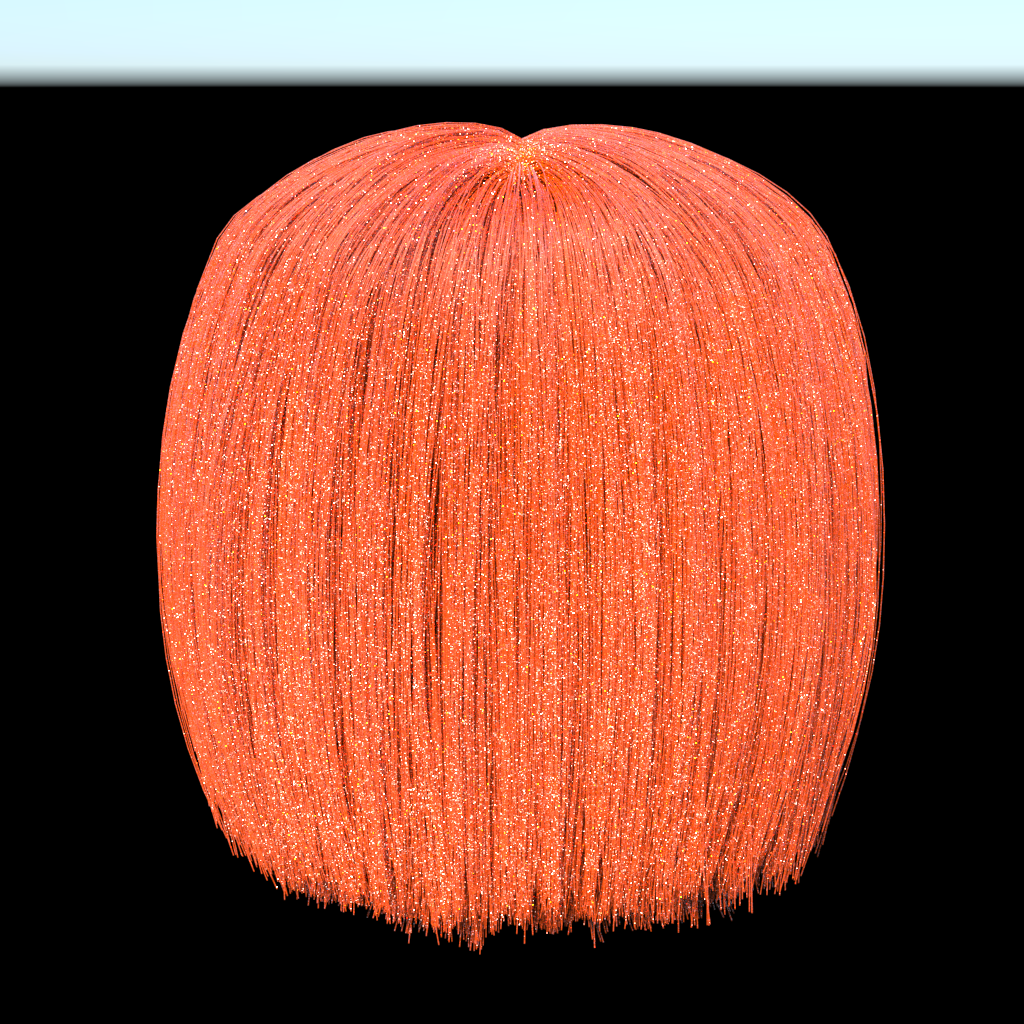
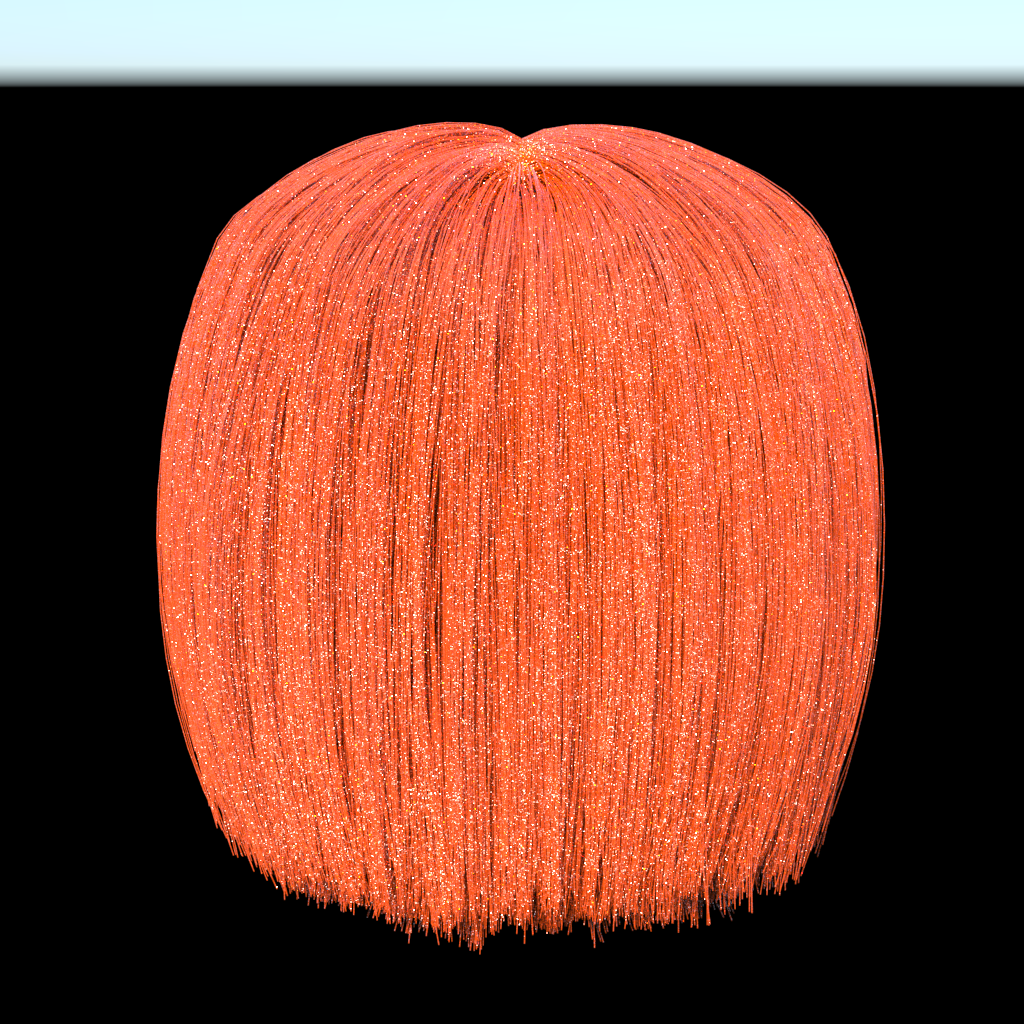
Fixed invalid sample error but why is pdf negative? played around with other variables but no luck

diff --git a/src/bsdfs/marschner_diffuse.cpp b/src/bsdfs/marschner_diffuse.cpp
@@ -72,13 +72,13 @@ public:
         int x;
         _sampler->warp(v, xi, x);
 
-        phi = 2.0f*M_PI*(x + xi)*(1.0f/AzimuthalResolution);
-        pdf = _sampler->pdf(v, x)*float(AzimuthalResolution*(1.0f / (2.0f * M_PI)));
+        phi = 2.0f*M_PI_FLT*(x + xi)*(1.0f/AzimuthalResolution);
+        pdf = _sampler->pdf(v, x)*float(AzimuthalResolution*(1.0f / (2.0f * M_PI_FLT)));
     }
 
     Vector3f eval(float phi, float cosThetaD) const
     {
-        float u = (AzimuthalResolution - 1)*phi*(1.0f / (2.0f * M_PI));
+        float u = (AzimuthalResolution - 1)*phi*(1.0f / (2.0f * M_PI_FLT));
         float v = (AzimuthalResolution - 1)*cosThetaD;
         int x0 = math::clamp(int(u), 0, AzimuthalResolution - 2);
         int y0 = math::clamp(int(v), 0, AzimuthalResolution - 2);
@@ -93,24 +93,24 @@ public:
 
     float pdf(float phi, float cosThetaD) const
     {
-        float u = (AzimuthalResolution - 1)*phi*(1.0f / (2.0f * M_PI));
+        float u = (AzimuthalResolution - 1)*phi*(1.0f / (2.0f * M_PI_FLT));
         float v = (AzimuthalResolution - 1)*cosThetaD;
-        return _sampler->pdf(v, int(u))*float(AzimuthalResolution*(1.0f / (2.0f * M_PI)));
+        return _sampler->pdf(v, int(u))*float(AzimuthalResolution*(1.0f / (2.0f * M_PI_FLT)));
     }
 
     float weight(float cosThetaD) const
     {
         float v = (AzimuthalResolution - 1)*cosThetaD;
-        return _sampler->sum(v)*(2.0f * M_PI/AzimuthalResolution);
+        return _sampler->sum(v)*(2.0f * M_PI_FLT/AzimuthalResolution);
     }
 private:
     std::unique_ptr<Vector3f[]> _table;
     std::unique_ptr<InterpolatedDistribution1D> _sampler;
 };
 
-class Marschner : public BSDF {
+class MarschnerDiffuse : public BSDF {
 public:
-    Marschner(const Properties &props) : BSDF(props) {
+    MarschnerDiffuse(const Properties &props) : BSDF(props) {
         /* Specifies the internal index of refraction at the interface */
         Float intIOR = lookupIOR(props, "intIOR", "bk7");
 
@@ -122,12 +122,12 @@ public:
                 "refraction must be positive!");
 
         m_eta = intIOR / extIOR;
-        _sigmaA = Vector3f(0.22);        
+        _sigmaA = Vector3f(0.5);        
 
         m_specularReflectance = new ConstantSpectrumTexture(
-            props.getSpectrum("specularReflectance", Spectrum(0.1f)));
+            props.getSpectrum("specularReflectance", Spectrum(0.5f)));
         m_specularTransmittance = new ConstantSpectrumTexture(
-            props.getSpectrum("specularTransmittance", Spectrum(0.1f)));
+            props.getSpectrum("specularTransmittance", Spectrum(0.5f)));
         
         m_diffuseReflectance = new ConstantSpectrumTexture(
             props.getSpectrum("diffuseReflectance", Spectrum(1.0f)));
@@ -158,7 +158,7 @@ public:
         _vTRT = _betaTRT * _betaTRT;
     }
 
-    Marschner(Stream *stream, InstanceManager *manager)
+    MarschnerDiffuse(Stream *stream, InstanceManager *manager)
             : BSDF(stream, manager) {
         m_eta = stream->readFloat();
         m_specularReflectance = static_cast<Texture *>(manager->getInstance(stream));
@@ -453,6 +453,8 @@ public:
         float MR   = M(_vR,   std::sin(thetaIR),   sinThetaO, std::cos(thetaIR),   cosThetaO);
         float MTT  = M(_vTT,  std::sin(thetaITT),  sinThetaO, std::cos(thetaITT),  cosThetaO);
         float MTRT = M(_vTRT, std::sin(thetaITRT), sinThetaO, std::cos(thetaITRT), cosThetaO);
+        // float MR  = 0, MTT = 0;
+
 
         Vector3f temp = MR*  _nR->eval(phi, cosThetaD)
                 +  MTT* _nTT->eval(phi, cosThetaD)
@@ -720,7 +722,7 @@ public:
         if (choseSpecular) {
             /* Perfect specular reflection based on the microfacet normal */
             bRec.wo = Vector3f(sinPhi*cosThetaO, sinThetaO, cosPhi*cosThetaO);
-            pdf = Marschner::pdf(bRec, ESolidAngle); // TODO vary esolidangle
+            pdf = MarschnerDiffuse::pdf(bRec, ESolidAngle); // TODO vary esolidangle
             // bRec.weight = eval(event)/event.pdf;// TODO watch out for the weight
             bRec.sampledType = EDeltaReflection;
         } else {
@@ -731,9 +733,10 @@ public:
         bRec.eta = 1.0f;
 
         /* Guard against numerical imprecisions */
-        pdf = Marschner::pdf(bRec, ESolidAngle);
+        pdf = MarschnerDiffuse::pdf(bRec, ESolidAngle);
+        // cout << "PDF: " << pdf << endl;
 
-        if (pdf == 0)
+        if (pdf <= 0)
             return Spectrum(0.0f);
         else
             return eval(bRec, ESolidAngle) / pdf;
@@ -741,7 +744,7 @@ public:
 
     Spectrum sample(BSDFSamplingRecord &bRec, const Point2 &sample) const {
         float pdf;
-        return Marschner::sample(bRec, pdf, sample);
+        return MarschnerDiffuse::sample(bRec, pdf, sample);
     }
 
     void precomputeAzimuthalDistributions() {
@@ -850,7 +853,7 @@ public:
     }
 
     Float getRoughness(const Intersection &its, int component) const {
-        return 0.0f;
+        return _roughness;
     }
 
     std::string toString() const {
@@ -896,9 +899,9 @@ private:
 /* Fake glass shader -- it is really hopeless to visualize
    this material in the VPL renderer, so let's try to do at least
    something that suggests the presence of a transparent boundary */
-class MarschnerShader : public Shader {
+class MarschnerDiffuseShader : public Shader {
 public:
-    MarschnerShader(Renderer *renderer) :
+    MarschnerDiffuseShader(Renderer *renderer) :
         Shader(renderer, EBSDFShader) {
         m_flags = ETransparent;
     }
@@ -925,11 +928,11 @@ public:
     MTS_DECLARE_CLASS()
 };
 
-Shader *Marschner::createShader(Renderer *renderer) const {
-    return new MarschnerShader(renderer);
+Shader *MarschnerDiffuse::createShader(Renderer *renderer) const {
+    return new MarschnerDiffuseShader(renderer);
 }
 
-MTS_IMPLEMENT_CLASS(MarschnerShader, false, Shader)
-MTS_IMPLEMENT_CLASS_S(Marschner, false, BSDF)
-MTS_EXPORT_PLUGIN(Marschner, "Thin dielectric BSDF");
+MTS_IMPLEMENT_CLASS(MarschnerDiffuseShader, false, Shader)
+MTS_IMPLEMENT_CLASS_S(MarschnerDiffuse, false, BSDF)
+MTS_EXPORT_PLUGIN(MarschnerDiffuse, "Marschner Diffuse (color) BSDF");
 MTS_NAMESPACE_END

diff --git a/src/bsdfs/marschner.cpp b/src/bsdfs/marschner.cpp
@@ -750,5 +750,5 @@ Shader *Marschner::createShader(Renderer *renderer) const {
 
 MTS_IMPLEMENT_CLASS(MarschnerShader, false, Shader)
 MTS_IMPLEMENT_CLASS_S(Marschner, false, BSDF)
-MTS_EXPORT_PLUGIN(Marschner, "Thin dielectric BSDF");
+MTS_EXPORT_PLUGIN(Marschner, "Marschner BSDF");
 MTS_NAMESPACE_END
